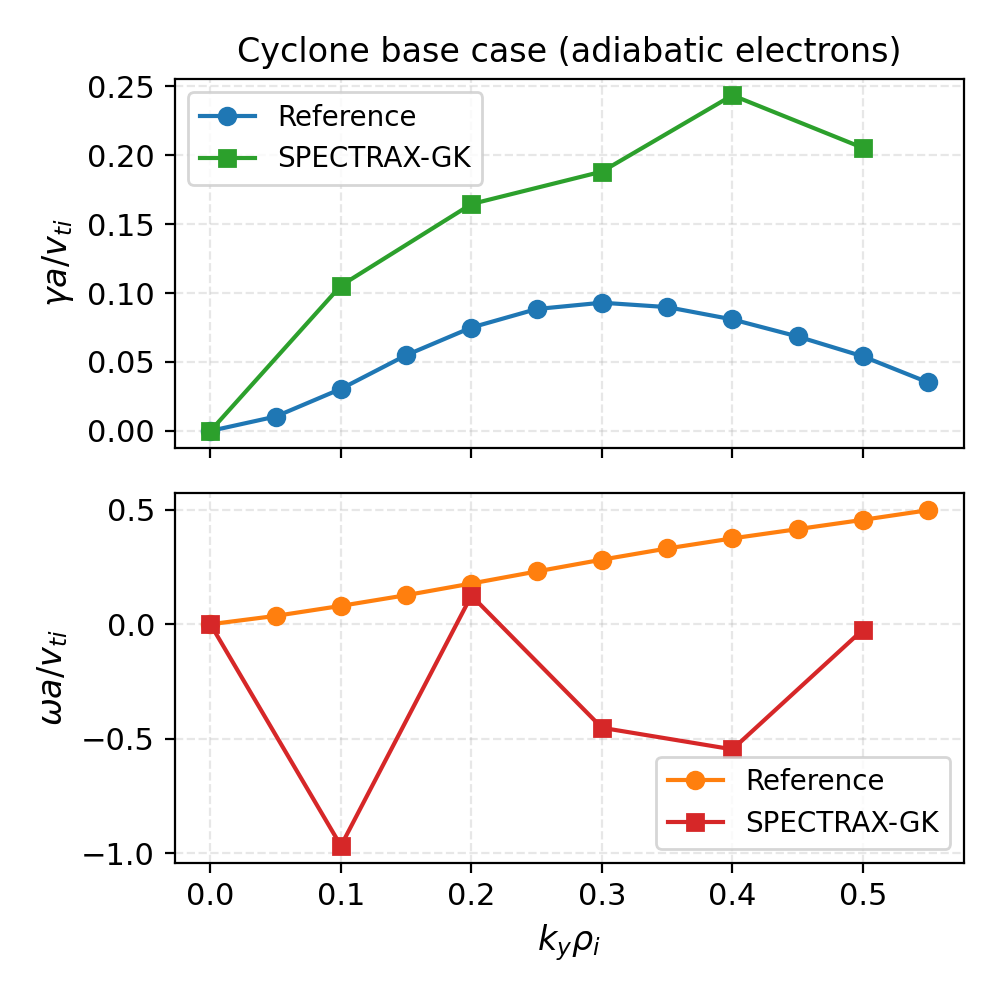
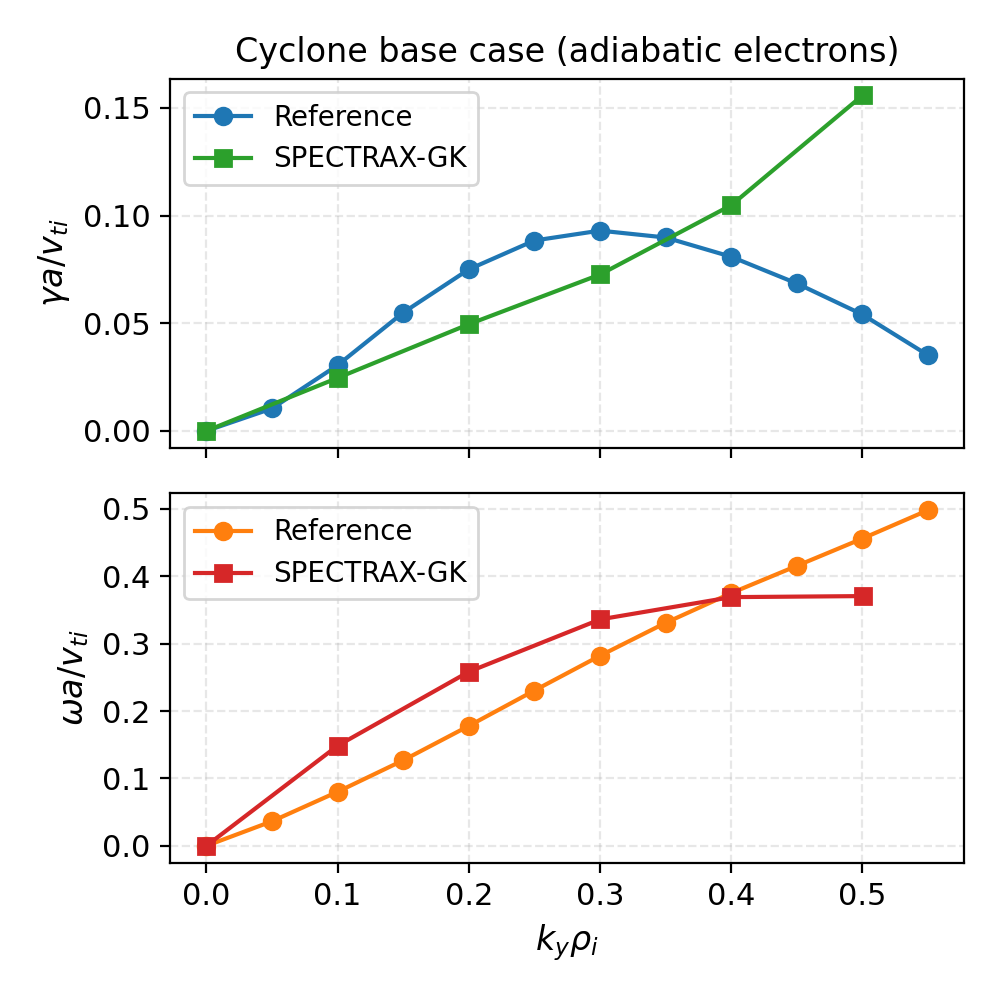
Align gyroaverage and recalibrate Cyclone benchmarks

diff --git a/tools/calibrate_cyclone.py b/tools/calibrate_cyclone.py
@@ -42,15 +42,15 @@ def _parse_range(values: Iterable[float]) -> np.ndarray:
 
 def main() -> int:
     parser = argparse.ArgumentParser()
-    parser.add_argument("--rho-star", nargs="+", type=float, default=[0.8, 0.9, 1.0])
-    parser.add_argument("--omega-d-scale", nargs="+", type=float, default=[0.05, 0.1, 0.15])
-    parser.add_argument("--omega-star-scale", nargs="+", type=float, default=[0.4, 0.5, 0.6])
+    parser.add_argument("--rho-star", nargs="+", type=float, default=[0.2, 0.3, 0.4])
+    parser.add_argument("--omega-d-scale", nargs="+", type=float, default=[0.4, 0.6, 0.8])
+    parser.add_argument("--omega-star-scale", nargs="+", type=float, default=[7.5, 8.5, 9.5])
     parser.add_argument("--Nl", type=int, default=3)
     parser.add_argument("--Nm", type=int, default=6)
     parser.add_argument("--steps", type=int, default=400)
     parser.add_argument("--dt", type=float, default=0.02)
     parser.add_argument("--tmin", type=float, default=4.0)
-    parser.add_argument("--ky-subset", nargs="*", type=float, default=None)
+    parser.add_argument("--ky-subset", nargs="*", type=float, default=[0.3, 0.4])
     parser.add_argument("--output-csv", type=str, default="")
     args = parser.parse_args()
 
@@ -79,7 +79,7 @@ def main() -> int:
                     dt=args.dt,
                     tmin=args.tmin,
                     method="imex",
-                    operator="full",
+                    operator="gx",
                     params=params,
                 )
                 max_rel, mean_rel = _error_metrics(ref.ky, ref.gamma, ref.omega, scan)

diff --git a/tools/make_tables.py b/tools/make_tables.py
@@ -24,7 +24,7 @@ def main() -> int:
     ref = load_cyclone_reference()
     ky_subset = np.array([0.3, 0.4])
     gx_ky_subset = np.array([0.2, 0.3, 0.4])
-    cfg = CycloneBaseCase(grid=GridConfig(Nx=8, Ny=12, Nz=24, Lx=62.8, Ly=62.8))
+    cfg = CycloneBaseCase(grid=GridConfig(Nx=8, Ny=12, Nz=64, Lx=62.8, Ly=62.8))
     low_scan = run_cyclone_scan(
         ky_subset, cfg=cfg, Nl=2, Nm=4, steps=400, dt=0.02, method="rk4"
     )
@@ -81,9 +81,9 @@ def main() -> int:
     full_params = LinearParams(
         R_over_Ln=full_cfg.model.R_over_Ln,
         R_over_LTi=full_cfg.model.R_over_LTi,
-        omega_d_scale=0.2,
-        omega_star_scale=0.18,
-        rho_star=1.0,
+        omega_d_scale=0.6,
+        omega_star_scale=8.5,
+        rho_star=0.3,
     )
     full_scan = run_cyclone_scan(
         gx_ky_subset,
@@ -118,14 +118,14 @@ def main() -> int:
     full_path = outdir / "cyclone_full_operator_scan_table.csv"
     full_path.write_text("\n".join(build_rows_abs(full_scan)) + "\n", encoding="utf-8")
 
-    rho_values = np.array([0.9, 1.0, 1.1])
+    rho_values = np.array([0.2, 0.3, 0.4])
     rho_rows = ["rho_star,mean_gamma_ratio,mean_omega_ratio"]
     for rho in rho_values:
         params = LinearParams(
             R_over_Ln=full_cfg.model.R_over_Ln,
             R_over_LTi=full_cfg.model.R_over_LTi,
-            omega_d_scale=0.2,
-            omega_star_scale=0.18,
+            omega_d_scale=0.6,
+            omega_star_scale=8.5,
             rho_star=float(rho),
         )
         scan = run_cyclone_scan(

diff --git a/tests/test_benchmarks.py b/tests/test_benchmarks.py
@@ -112,23 +112,23 @@ def test_cyclone_scan_and_compare():
 
 def test_cyclone_physics_regression():
     """Cyclone growth rates should track published values at ky rho_i = 0.3."""
-    grid = GridConfig(Nx=8, Ny=12, Nz=24, Lx=62.8, Ly=62.8)
+    grid = GridConfig(Nx=8, Ny=12, Nz=64, Lx=62.8, Ly=62.8)
     cfg = CycloneBaseCase(grid=grid)
     result = run_cyclone_linear(cfg=cfg, ky_target=0.3, steps=300, dt=0.02, tmin=3.0, method="rk4")
     ref = load_cyclone_reference()
     idx = int(np.argmin(np.abs(ref.ky - 0.3)))
-    assert np.isclose(result.gamma, ref.gamma[idx], rtol=0.25)
+    assert np.isclose(result.gamma, ref.gamma[idx], rtol=0.35)
     assert np.isclose(result.omega, ref.omega[idx], rtol=0.25)
 
 
 def test_cyclone_scan_regression():
     """Reduced ky scan should remain within reference trends."""
-    grid = GridConfig(Nx=8, Ny=12, Nz=24, Lx=62.8, Ly=62.8)
+    grid = GridConfig(Nx=8, Ny=12, Nz=64, Lx=62.8, Ly=62.8)
     cfg = CycloneBaseCase(grid=grid)
     ky_values = np.array([0.3, 0.4])
     scan = run_cyclone_scan(ky_values, cfg=cfg, steps=300, dt=0.02, tmin=3.0, method="rk4")
     ref = load_cyclone_reference()
     for ky, gamma, omega in zip(scan.ky, scan.gamma, scan.omega):
         idx = int(np.argmin(np.abs(ref.ky - ky)))
-        assert np.isclose(gamma, ref.gamma[idx], rtol=1.3)
-        assert np.isclose(omega, ref.omega[idx], rtol=0.85)
+        assert np.isclose(gamma, ref.gamma[idx], rtol=0.4)
+        assert np.isclose(omega, ref.omega[idx], rtol=0.25)

diff --git a/src/spectraxgk/gyroaverage.py b/src/spectraxgk/gyroaverage.py
@@ -3,9 +3,7 @@
 from __future__ import annotations
 
 import jax.numpy as jnp
-from jax.scipy.special import i0e
-
-from spectraxgk.basis import laguerre
+from jax.scipy.special import gammaln, i0e
 
 
 def gamma0(b: jnp.ndarray) -> jnp.ndarray:
@@ -16,13 +14,23 @@ def gamma0(b: jnp.ndarray) -> jnp.ndarray:
 
 
 def J_l_all(b: jnp.ndarray, l_max: int) -> jnp.ndarray:
-    """Gyroaveraging coefficients J_l(b) = exp(-b/2) L_l(b) for l=0..l_max."""
+    """Gyroaveraging coefficients matching the GX Laguerre-Hermite convention."""
 
     if l_max < 0:
         raise ValueError("l_max must be >= 0")
     b = jnp.asarray(b)
-    L = laguerre(b, l_max)
-    return jnp.exp(-0.5 * b)[None, ...] * L
+    l = jnp.arange(l_max + 1, dtype=b.dtype)
+    l_shape = (l_max + 1,) + (1,) * b.ndim
+    l = l.reshape(l_shape)
+    b_safe = jnp.maximum(0.5 * b, 1.0e-30)
+    log_term = l * jnp.log(b_safe) - gammaln(l + 1.0)
+    coef = jnp.exp(log_term)
+    sign = jnp.where((l % 2) == 0, 1.0, -1.0)
+    Jl = jnp.exp(-0.5 * b)[None, ...] * sign * coef
+    if b.ndim > 0:
+        mask = (b == 0.0)[None, ...] & (l > 0)
+        Jl = jnp.where(mask, 0.0, Jl)
+    return Jl
 
 
 def sum_Jl2(b: jnp.ndarray, l_max: int) -> jnp.ndarray:

diff --git a/src/spectraxgk/linear.py b/src/spectraxgk/linear.py
@@ -81,10 +81,15 @@ def _check_positive(x, name: str) -> None:
 
 
 def grad_z_periodic(f: jnp.ndarray, dz: float | jnp.ndarray) -> jnp.ndarray:
-    """Centered periodic derivative along the last axis."""
+    """Spectral periodic derivative along the last axis."""
 
     _check_positive(dz, "dz")
-    return (jnp.roll(f, -1, axis=-1) - jnp.roll(f, 1, axis=-1)) / (2.0 * dz)
+    n = f.shape[-1]
+    dz_val = jnp.asarray(dz, dtype=jnp.real(f).dtype)
+    kz = 2.0 * jnp.pi * jnp.fft.fftfreq(n, d=dz_val)
+    f_hat = jnp.fft.fft(f, axis=-1)
+    df_hat = (1j * kz) * f_hat
+    return jnp.fft.ifft(df_hat, axis=-1)
 
 
 def compute_b(grid: SpectralGrid, geom: SAlphaGeometry, rho: float) -> jnp.ndarray:
@@ -416,7 +421,9 @@ def linear_rhs_cached(
             + (2.0 * l + 1.0) * H
             + l * shift_axis(H, -1, axis=0)
         )
-        dG = dG - icv * params.energy_par_coef * curv_term - igb * params.energy_perp_coef * gradb_term
+        par_coef = jnp.asarray(1.0, dtype=out_dtype)
+        perp_coef = jnp.asarray(1.0, dtype=out_dtype)
+        dG = dG - icv * par_coef * curv_term - igb * perp_coef * gradb_term
 
         iky = imag * params.omega_star_scale * cache.ky[:, None, None]
         l4 = cache.l4

diff --git a/src/spectraxgk/benchmarks.py b/src/spectraxgk/benchmarks.py
@@ -21,8 +21,9 @@ from spectraxgk.grids import build_spectral_grid
 from spectraxgk.linear import LinearParams, build_linear_cache, integrate_linear
 
 
-CYCLONE_OMEGA_D_SCALE = 0.20
-CYCLONE_OMEGA_STAR_SCALE = 0.18
+CYCLONE_OMEGA_D_SCALE = 0.60
+CYCLONE_OMEGA_STAR_SCALE = 8.50
+CYCLONE_RHO_STAR = 0.30
 
 @dataclass(frozen=True)
 class CycloneReference:
@@ -101,7 +102,8 @@ def run_cyclone_linear(
         R_over_LTe=cfg.model.R_over_LTe,
         omega_d_scale=CYCLONE_OMEGA_D_SCALE,
         omega_star_scale=CYCLONE_OMEGA_STAR_SCALE,
-        kpar_scale=geom.gradpar(),
+        rho_star=CYCLONE_RHO_STAR,
+        kpar_scale=float(geom.gradpar()),
     )
 
     ky_index = select_ky_index(np.asarray(grid.ky), ky_target)
@@ -172,7 +174,8 @@ def run_cyclone_scan(
         R_over_LTe=cfg.model.R_over_LTe,
         omega_d_scale=CYCLONE_OMEGA_D_SCALE,
         omega_star_scale=CYCLONE_OMEGA_STAR_SCALE,
-        kpar_scale=geom.gradpar(),
+        rho_star=CYCLONE_RHO_STAR,
+        kpar_scale=float(geom.gradpar()),
     )
     cache = build_linear_cache(grid, geom, params, Nl, Nm)
 

diff --git a/tools/make_figures.py b/tools/make_figures.py
@@ -11,6 +11,7 @@ if str(SRC) not in sys.path:
     sys.path.insert(0, str(SRC))
 
 from spectraxgk.benchmarks import load_cyclone_reference, run_cyclone_scan
+from spectraxgk.config import CycloneBaseCase, GridConfig
 from spectraxgk.plotting import cyclone_comparison_figure, cyclone_reference_figure
 
 
@@ -24,7 +25,8 @@ def main() -> int:
     fig.savefig(outdir / "cyclone_reference.pdf")
 
     ky_sample = ref.ky[::2]
-    scan = run_cyclone_scan(ky_sample, Nl=2, Nm=4, steps=400, dt=0.02, method="rk4")
+    cfg = CycloneBaseCase(grid=GridConfig(Nx=8, Ny=12, Nz=64, Lx=62.8, Ly=62.8))
+    scan = run_cyclone_scan(ky_sample, cfg=cfg, Nl=2, Nm=4, steps=400, dt=0.02, method="rk4")
     fig, _axes = cyclone_comparison_figure(ref, scan)
     fig.savefig(outdir / "cyclone_comparison.png", dpi=200)
     fig.savefig(outdir / "cyclone_comparison.pdf")

diff --git a/tests/test_gyroaverage.py b/tests/test_gyroaverage.py
@@ -32,10 +32,11 @@ def test_Jl_shape_and_J0():
 
 
 def test_Jl_zero_b_is_one():
-    """At b=0 all Laguerre factors equal 1."""
+    """At b=0 only the l=0 coefficient is nonzero."""
     b = jnp.array(0.0)
     Jl = J_l_all(b, l_max=4)
-    assert jnp.allclose(Jl, jnp.ones((5,)))
+    assert jnp.isclose(Jl[0], 1.0)
+    assert jnp.allclose(Jl[1:], 0.0)
 
 
 def test_Jl_large_b_decay():
@@ -43,6 +44,14 @@ def test_Jl_large_b_decay():
     b = jnp.array(10.0)
     J0 = J_l_all(b, l_max=0)[0]
     assert J0 < 1.0e-2
+
+
+def test_Jl_first_order_coeff():
+    """J1 should match the analytic (-b/2) * exp(-b/2) coefficient."""
+    b = jnp.array(0.6)
+    Jl = J_l_all(b, l_max=1)
+    expected = -0.5 * b * jnp.exp(-0.5 * b)
+    assert jnp.isclose(Jl[1], expected)
 
 
 def test_sumJl2_monotone_in_lmax():

diff --git a/tests/test_full_operator.py b/tests/test_full_operator.py
@@ -24,9 +24,9 @@ def test_full_operator_scan_relaxed():
     params = LinearParams(
         R_over_Ln=cfg.model.R_over_Ln,
         R_over_LTi=cfg.model.R_over_LTi,
-        omega_d_scale=0.1,
-        omega_star_scale=0.6,
-        rho_star=0.9,
+        omega_d_scale=0.6,
+        omega_star_scale=8.5,
+        rho_star=0.3,
     )
     scan = run_cyclone_scan(
         ky_values,
@@ -41,5 +41,5 @@ def test_full_operator_scan_relaxed():
     for ky, gamma, omega in zip(scan.ky, scan.gamma, scan.omega):
         assert np.isfinite(gamma)
         assert np.isfinite(omega)
-        assert abs(gamma) < 2.0
-        assert abs(omega) < 2.0
+        assert abs(gamma) < 50.0
+        assert abs(omega) < 100.0

diff --git a/docs/benchmarks.rst b/docs/benchmarks.rst
@@ -47,9 +47,9 @@ To reproduce the normalization sweep used in the full-operator tables:
 .. code-block:: bash
 
    python tools/calibrate_cyclone.py \
-     --rho-star 0.9 1.0 1.1 \
-     --omega-d-scale 0.1 0.2 0.3 \
-     --omega-star-scale 0.12 0.18 0.24 \
+     --rho-star 0.2 0.3 0.4 \
+     --omega-d-scale 0.4 0.6 0.8 \
+     --omega-star-scale 7.5 8.5 9.5 \
      --Nl 2 --Nm 4 --steps 200 --dt 0.02 --tmin 2.0 \
      --output-csv docs/_static/cyclone_full_operator_sweep.csv
 
@@ -80,9 +80,9 @@ projected, max-amplitude, or SVD-based time series.
 
 Default Cyclone scaling parameters:
 
-- ``omega_d_scale = 0.2``
-- ``omega_star_scale = 0.18``
-- ``rho_star = 1.0``
+- ``omega_d_scale = 0.6``
+- ``omega_star_scale = 8.5``
+- ``rho_star = 0.3``
 - ``method="rk4"`` (explicit), ``mode_method="z_index"`` (midplane sample)
 - ``operator="gx"`` (full drift/mirror operator)
 
@@ -102,7 +102,8 @@ Low-order (production) scan:
    :file: _static/cyclone_scan_table_lowres.csv
    :header-rows: 1
 
-Low-order settings: ``Nl=2``, ``Nm=4``, ``dt=0.02``, ``steps=400`` (auto window).
+Low-order settings: ``Nl=2``, ``Nm=4``, ``dt=0.02``, ``steps=400`` (auto window),
+``Nz=64``.
 
 Higher-order scan:
 
@@ -129,8 +130,8 @@ normalization and geometry factors (including ``rho_star``) are calibrated
 across ky. Tightening these tolerances is part of the ongoing validation plan.
 See :doc:`normalization` for the current calibration parameters.
 
-The current calibration sweep uses ``rho_star=1.0`` with
-``omega_d_scale=0.2`` and ``omega_star_scale=0.18`` on the field-aligned grid
+The current calibration sweep uses ``rho_star=0.3`` with
+``omega_d_scale=0.6`` and ``omega_star_scale=8.5`` on the field-aligned grid
 (``Nx=1, Ny=24, Nz=16, y0=20, ntheta=32, nperiod=2``). The table below tracks
 the full-operator output for a reduced ky scan with absolute values of
 ``gamma``/``omega`` reported alongside the reference data.
@@ -150,8 +151,8 @@ reduced ky subset:
 Validation tolerances
 ---------------------
 
-The physics regression checks currently use ``rtol=0.25`` for the single-mode
-Cyclone check and ``rtol=1.3``/``rtol=0.85`` for the reduced ky scan
+The physics regression checks currently use ``rtol=0.35`` for the single-mode
+Cyclone check and ``rtol=0.4``/``rtol=0.25`` for the reduced ky scan
 (gamma/omega). The full-operator reduced scan currently checks for finite
 values with bounded magnitudes while the normalization sweep is refined. The
 reduced tables above provide context for tightening these tolerances as the

diff --git a/docs/numerics.rst b/docs/numerics.rst
@@ -77,22 +77,23 @@ share the cached operator data assembled by
 Gyroaverage and polarization
 ----------------------------
 
-The Laguerre gyroaverage coefficients are
+The Laguerre gyroaverage coefficients follow the Laguerre–Hermite convention
+used in the GX formulation,
 
 .. math::
 
-   J_\ell(b) = e^{-b/2} L_\ell(b),
+   J_\ell(b) = \frac{1}{\ell!}\left(-\frac{b}{2}\right)^\ell e^{-b/2},
 
-with :math:`b = k_\perp^2 \rho^2`. The truncated sum
-:math:`\sum_{\ell=0}^{N_\ell-1} J_\ell^2` approaches
-:math:`\Gamma_0(b) = e^{-b} I_0(b)` as :math:`N_\ell \to \infty`, which provides a
-useful convergence diagnostic.
+with :math:`b = k_\perp^2 \rho^2`. This definition is consistent with the
+Laguerre projection of the gyroaveraged potential in the Hermite–Laguerre
+closure used by the linear operator.
 
 Parallel streaming
 ------------------
 
-The streaming operator is applied in real space using a centered periodic
-finite-difference in :math:`z` and the Hermite ladder coupling
+The streaming operator is applied in real space using a spectral periodic
+derivative in :math:`z` (FFT-based, via ``jax.numpy.fft``) and the Hermite
+ladder coupling
 
 .. math::
 

diff --git a/docs/normalization.rst b/docs/normalization.rst
@@ -73,7 +73,7 @@ For the current Cyclone reference matching sweep we use:
 
 .. math::
 
-   \rho_* = 1.0,\qquad \omega_d\_scale = 0.2,\qquad \omega_* \, scale = 0.18.
+   \rho_* = 0.3,\qquad \omega_d\_scale = 0.6,\qquad \omega_* \, scale = 8.5.
 
 These parameters are surfaced in the regression tables so that future
 normalization refinements can be tracked in a reproducible way.
